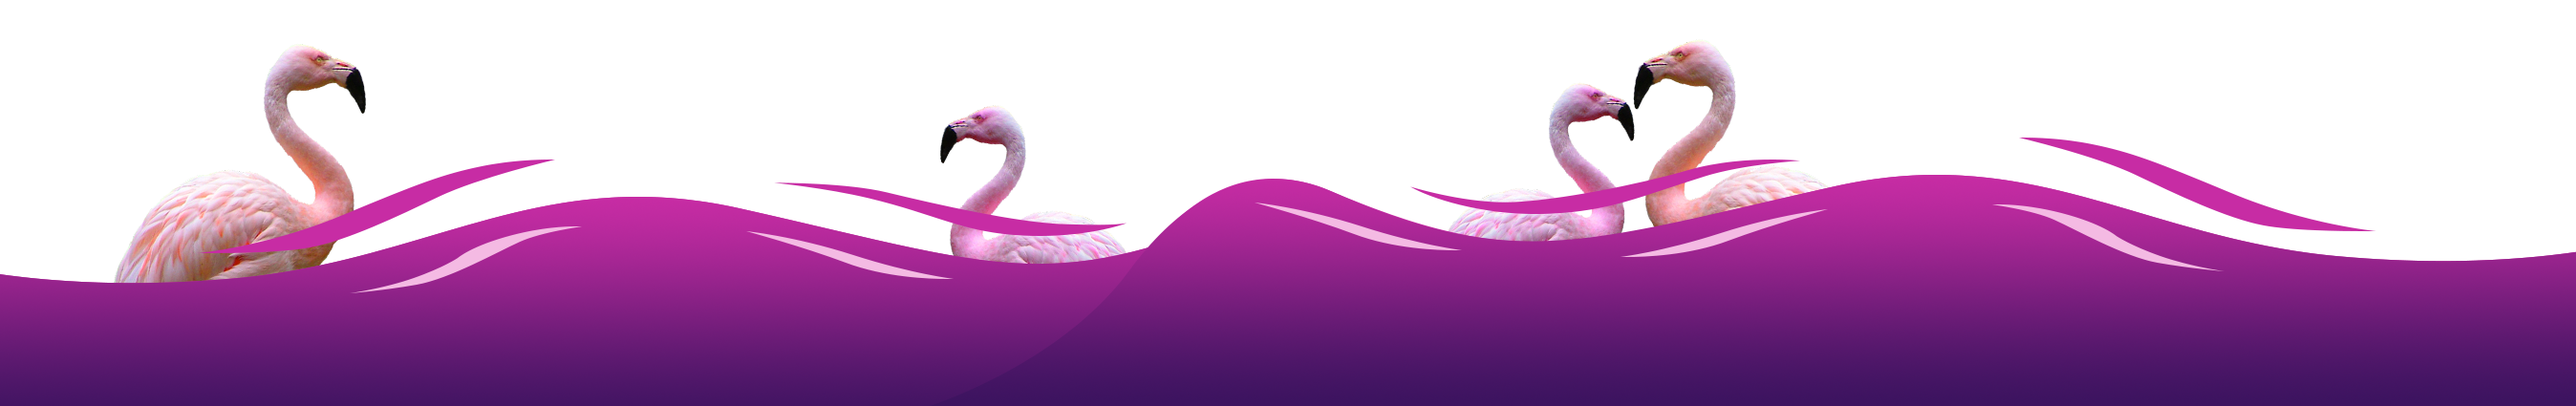
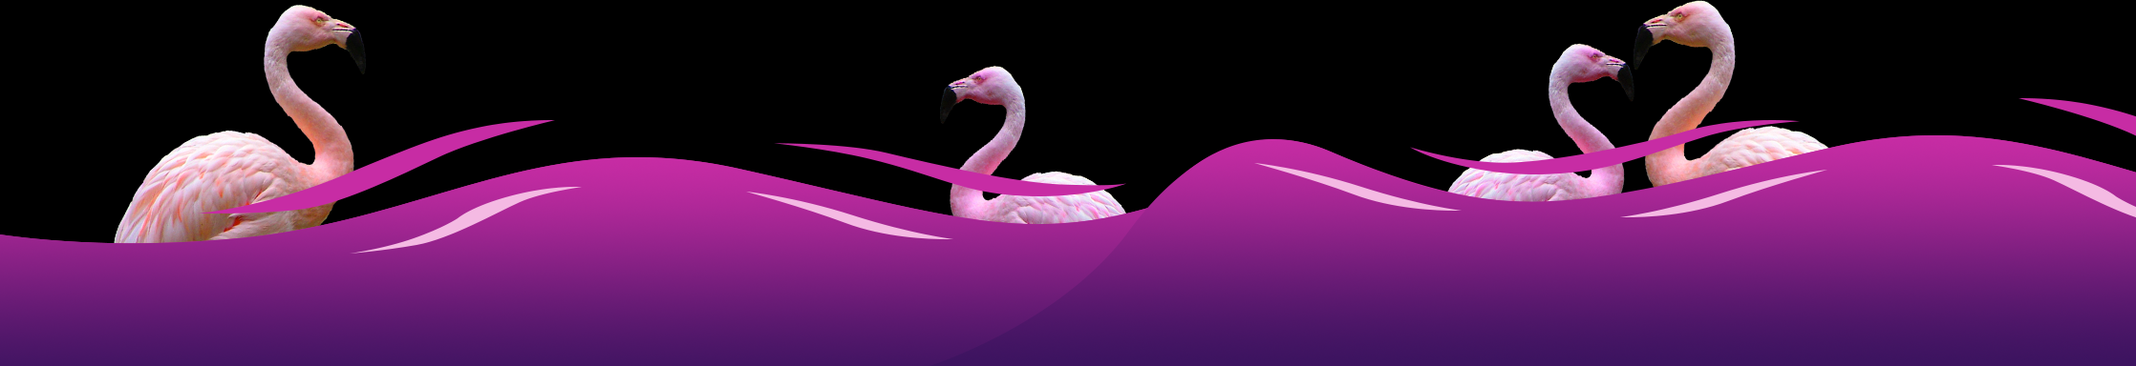
-footer with background and text, flex layout

diff --git a/flamingo_school.html b/flamingo_school.html
@@ -1,5 +1,6 @@
 <!DOCTYPE html>
-<html lang="en">
+<html lang="en-ru" >
+
 <head>
     <meta charset="UTF-8">
     <title>Bird camp!</title>
@@ -28,26 +29,21 @@
 
 
    <p class="content" >
-       Flamingos usually stand on one leg while the other is tucked beneath their bodies.
-       <br>The reason for this behaviour is not fully understood. <br>One theory is that standing
-       on one leg allows the birds to conserve more body heat, given that they spend a
-       significant amount of time wading in cold water. <br>However, the behaviour also takes
-       place in warm water and is also observed in birds that do not typically stand in water.
-       <br>An alternative theory is that standing on one leg reduces the energy expenditure for
-       producing muscular effort to stand <br>and balance on one leg.</p>
-
-
+       Знаешь почему фламинго стоят на одной ножке?
+       <br>Ученные предпологают, что так они сохроняют тепло,
+       меняя по очереди то одну то вторую ногу. Что со стороны кажется крайне неудобной и трудной позой, от фламинго не
+       требует абсолютно никаких усилий. <br> Наверное им так просто удобно!
+       <br>Специальное физиологическое приспособление предотвращает сгибание опорной ноги,
+       из-за чего нога остаётся вытянутой даже без применения мускульной силы.
+       <br>А знаншь почему их так назвали?<br>Свое название птицы получили от латинского слова flamenco — «огонь»,
+       которое указывает на их яркий цвет.</p>
 
 </div>
 
-
 <footer class="section-footer">
-
-
-   <img class="background-img" src="img/footer.png" alt="footer">
-    <p class="copyright">© 2020 JS by Alllekso, HTML/CSS/Design by KateKrav</p>
-
+    <p class="copyright">© 2020 JS by Alekso, HTML/CSS/Design by KateKrav</p>
 </footer>
+
 </body>
 
 </html>

diff --git a/style/flamingo_school_style.css b/style/flamingo_school_style.css
@@ -91,22 +91,17 @@ body {
     display: flex;
 }
 
-footer{
-    display: flex;
-    overflow: hidden;
-}
-.background-img {
-    position: relative;
-    z-index: 0;
+
+.section-footer {
+    width: 100%;
+    height: 384px;
+    background-image: url("../img/footer.png");
 }
 
-.copyright {
+.copyright{
     color: #ffffff;
     font-size: 12px;
-    position: absolute;
-    z-index: 100;
-    left: 800px;
-    bottom: -750px;
-    padding: 50px;
+    text-align: center;
+    margin: 0 auto;
+    padding-top: 330px;
 }
-
